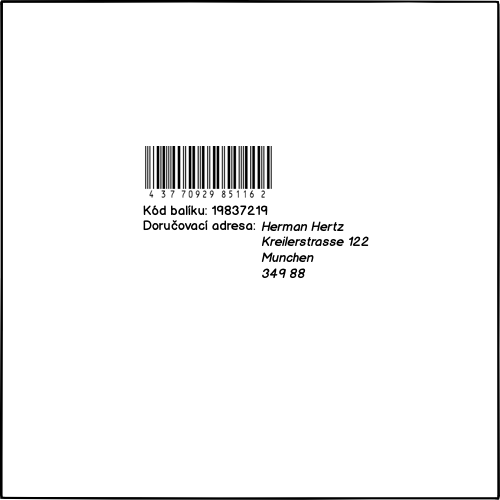
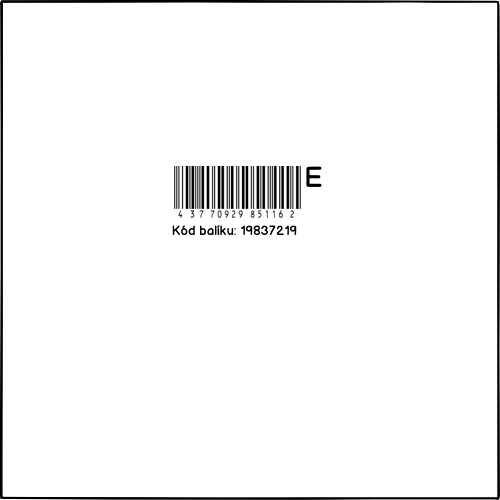
Deployed 9c63be9 with MkDocs version: 1.1

Changed region(s): [[0.27, 0.27, 0.75, 0.57]]

diff --git a/uc-20/index.html b/uc-20/index.html
@@ -265,6 +265,20 @@
       <ul class="md-nav__list">
         
           <li class="md-nav__item">
+  <a href="#posledni-varianta" class="md-nav__link">
+    Poslední varianta
+  </a>
+  
+</li>
+        
+          <li class="md-nav__item">
+  <a href="#pokracovani-puvodniho-uc" class="md-nav__link">
+    Pokračování původního UC
+  </a>
+  
+</li>
+        
+          <li class="md-nav__item">
   <a href="#zpracovani-jednoho-baliku" class="md-nav__link">
     Zpracování jednoho balíku
   </a>
@@ -588,6 +602,20 @@
       <ul class="md-nav__list">
         
           <li class="md-nav__item">
+  <a href="#posledni-varianta" class="md-nav__link">
+    Poslední varianta
+  </a>
+  
+</li>
+        
+          <li class="md-nav__item">
+  <a href="#pokracovani-puvodniho-uc" class="md-nav__link">
+    Pokračování původního UC
+  </a>
+  
+</li>
+        
+          <li class="md-nav__item">
   <a href="#zpracovani-jednoho-baliku" class="md-nav__link">
     Zpracování jednoho balíku
   </a>
@@ -722,11 +750,20 @@
 <li>Chybová fronta - Fronta pro chybové balíky. Které například nelze dohledat v systému, nemají kód nebo hrubě neodpovídají rozměry.</li>
 <li>Fronty pro dopravce - Každý dopravce bude mít svojí frontu, ze které mu budem balíky připravovat na vydání. Bude to například fronta pro DPD.</li>
 </ul>
+<p>Nejdříve budeme řešit nepoškozené balíky, pak poškozené.</p>
 <h3 id="stitek-na-baliku">Štítek na balíku</h3>
 <p>Při oběhu balíku v depu v některých případech použijeme místo interního štítku štítek dopravce. K tomu, aby to bylo možné, musí dopravce poskytnout nějaký způsob, jak balíku přidělit identifikační číslo, případně další vyžadované informace dřív, než balík předáme k dopravě. Například poskytne číselnou řadu, z které budeme balíkum přidělovat čísla. Dále musí mít na balíku čárový kód, který nám umožní rychlou identifikaci balíku. Identifikace balíku s štítkem dopravce, nesmí být složitějí než identifikace balíku s interním štítkem. Také nesmí vadit, že se může stát, že některá přidělené Id nevyužijeme. Například když zákazník zruší objednávku.</p>
 <h2 id="uc-20-prijeti-baliku"><a name="UC-20"></a>UC-20 - Přijetí balíků</h2>
 <p>Dispečer přijme balíky od dopravce a dá je do přijímací fronty k dalšímu zpracování. Dispečer potvrdí převzetí balíku podepsáním protokolu dopravce.</p>
 <h2 id="uc-21-zpracovani-prijatych-baliku"><a name="UC-21"></a>UC-21 - Zpracování přijatých balíků</h2>
+<h3 id="posledni-varianta">Poslední varianta</h3>
+<p><img alt="Proces zpracování přijatých balíků" src="../diagrams/out/uc-21-activity-5.png" title="Zpracování balíčku" /></p>
+<p><img alt="screen-200" src="../imgs/s-200.png" title="Zadání kódu balíku" /></p>
+<p><img alt="screen-215" src="../imgs/s-215.png" title="Je balík vpořádku?" /></p>
+<p><img alt="screen-216" src="../imgs/s-216.png" title="Zadání problému s balíkem?" /></p>
+<p><img alt="screen-217" src="../imgs/s-217.png" title="Měření a vážení?" /></p>
+<p><img alt="screen-218" src="../imgs/s-218.png" title="Tisk štítku?" /></p>
+<h3 id="pokracovani-puvodniho-uc">Pokračování původního UC</h3>
 <p>UC popisuje, zadání balíků do systému.</p>
 <p>Předpoklady:</p>
 <ul>

diff --git a/templates/index.html b/templates/index.html
@@ -564,6 +564,7 @@
 <h3 id="t-06-interni-stitek-baliku"><a name="T-06"></a>T-06 Interní štítek balíku</h3>
 <p>Tento štítek se nalepí na balík po jeho přijetí. Než předáme koncovému přepravci, tak interní štítek přelepíme dodacím štítkem dopravce. Proto bude mit interní štítek velké bílé prazdné okraje, aby šel snadno překrýt. Zároveň tento interní štítek musí být vzhledově hodně jiný než dodací štítek přepravce, aby nedošlo k záměně.</p>
 <p><img alt="Interní štítek balíku" src="../imgs/template-06.png" title="Interní štítek balíku" /></p>
+<p>Velké tiskací <code>E</code> značí, že štítek byl tisknut, protože nastala chyba. Podle všeho je to zbytečné, protože štítky tiskneme pouze v případěě chyby.</p>
                 
                   
                 
